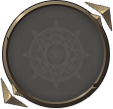
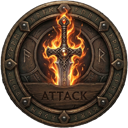
Commit the in-progress mobile UI and build tweaks sitting in the tree
These were already modified in the working tree and are not from this session;
committing them so the tree is clean rather than leaving them to rot uncommitted
alongside the audio and preload work. Recorded as-is, without review:

- New topbar and class-portrait assets under assets/ui, and a higher resolution
  attack.png.
- MuMainNativeActivity: small additions around the activity setup.
- cpp/CMakeLists.txt: the per-target warning and optimisation flags were
  reorganised.

If any of this was mid-edit and not meant to land, it is a single commit to
revert.

diff --git a/app/src/main/java/com/muonline/client/MuMainNativeActivity.java b/app/src/main/java/com/muonline/client/MuMainNativeActivity.java
@@ -220,8 +220,15 @@ public class MuMainNativeActivity extends NativeActivity {
 
         @Override
         public InputConnection onCreateInputConnection(EditorInfo outAttrs) {
-            outAttrs.imeOptions |= EditorInfo.IME_FLAG_NO_EXTRACT_UI | EditorInfo.IME_FLAG_NO_FULLSCREEN;
             final InputConnection baseConnection = super.onCreateInputConnection(outAttrs);
+
+            // After super, not before. TextView.onCreateInputConnection assigns
+            // outAttrs.imeOptions from the widget's own state, so flags set
+            // beforehand were being overwritten and thrown away. In landscape an
+            // IME defaults to fullscreen extract mode unless NO_FULLSCREEN
+            // survives, which is why the keyboard took over the whole screen.
+            outAttrs.imeOptions |= EditorInfo.IME_FLAG_NO_EXTRACT_UI
+                | EditorInfo.IME_FLAG_NO_FULLSCREEN;
             return new InputConnectionWrapper(baseConnection, true) {
                 @Override
                 public boolean commitText(CharSequence text, int newCursorPosition) {
@@ -269,7 +276,15 @@ public class MuMainNativeActivity extends NativeActivity {
 
                 @Override
                 public boolean performEditorAction(int actionCode) {
-                    nativeOnTextInput("\n");
+                    // The keyboard's Done key arrives here, not as a key event,
+                    // because the bridge is single-line with IME_ACTION_DONE.
+                    // Sending it on as text gave the game a newline character
+                    // and never reached its SDLK_RETURN handler, so chat could
+                    // be typed but not submitted or closed. Forward a real
+                    // Enter key press instead - nativeOnKeyEvent already maps
+                    // AKEYCODE_ENTER to SDLK_RETURN.
+                    nativeOnKeyEvent(KeyEvent.ACTION_DOWN, KeyEvent.KEYCODE_ENTER, 0, 0, 0);
+                    nativeOnKeyEvent(KeyEvent.ACTION_UP, KeyEvent.KEYCODE_ENTER, 0, 0, 0);
                     return true;
                 }
             };
